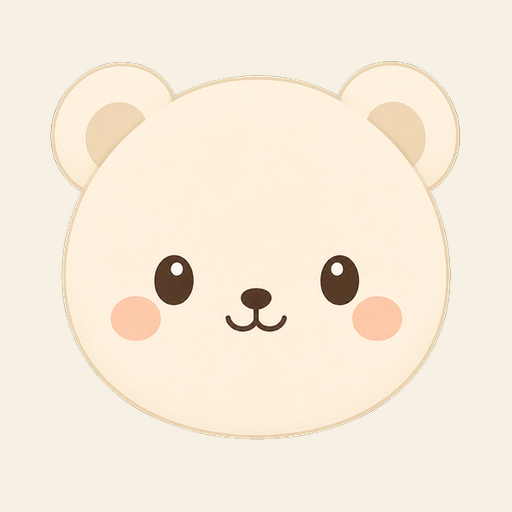
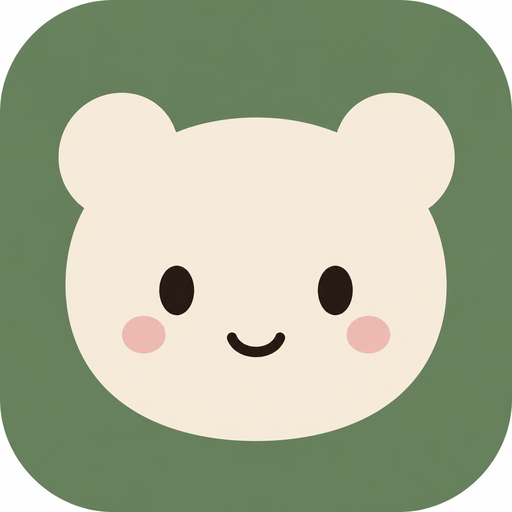
구글 파비콘을 세이지 세나로 연결한다
검색용 아이콘을 이미 만들어 둔 세이지 세나로 바꾸고, favicon.ico와 apple-touch-icon도 같은 얼굴로 맞춘다.

diff --git a/lib/brand.test.ts b/lib/brand.test.ts
@@ -2,7 +2,7 @@ import assert from "node:assert/strict"
 import { existsSync, readFileSync } from "node:fs"
 import { join } from "node:path"
 import test from "node:test"
-import { MASCOT } from "./brand.ts"
+import { MASCOT, MASCOT_FAVICON, MASCOT_MARK } from "./brand.ts"
 
 function pngSize(path: string) {
   const buf = readFileSync(path)
@@ -42,19 +42,31 @@ test("세나 그림 파일이 공개 폴더에 있다", () => {
   assert.equal(existsSync(join(root, "kindsem-sena-mark.png")), true)
   assert.equal(existsSync(join(root, "kindsem-sena-fav-48.png")), true)
   assert.equal(existsSync(join(root, "kindsem-sena-fav.ico")), true)
+  assert.equal(existsSync(join(root, "kindsem-sena-sage-48.png")), true)
+  assert.equal(existsSync(join(root, "kindsem-sena-sage-96.png")), true)
+  assert.equal(existsSync(join(root, "kindsem-sena-sage-192.png")), true)
+  assert.equal(existsSync(join(root, "kindsem-sena-sage.ico")), true)
   assert.equal(existsSync(join(root, "kindsem-sena-calc.png")), true)
   assert.equal(existsSync(join(root, "favicon.ico")), true)
+  assert.equal(existsSync(join(root, "apple-touch-icon.png")), true)
   assert.equal(existsSync(join(root, "icon-48.png")), true)
   assert.equal(existsSync(join(root, "icon-96.png")), true)
   assert.equal(existsSync(join(root, "icon-192.png")), true)
 })
 
-test("구글 검색용 파비콘이 48픽셀 배수다", () => {
+test("구글 검색용 파비콘이 세이지 세나고 48픽셀 배수다", () => {
   const root = join(process.cwd(), "public")
+  assert.equal(MASCOT_FAVICON.png48, "/kindsem-sena-sage-48.png")
+  assert.equal(MASCOT_FAVICON.png96, "/kindsem-sena-sage-96.png")
+  assert.equal(MASCOT_FAVICON.png192, "/kindsem-sena-sage-192.png")
+  assert.equal(MASCOT_FAVICON.ico, "/favicon.ico")
+  assert.equal(MASCOT_MARK.src, "/kindsem-sena-icon.png")
   assert.deepEqual(pngSize(join(root, "kindsem-sena-share-live.png")), { width: 1200, height: 1200 })
-  assert.deepEqual(pngSize(join(root, "kindsem-sena-mark.png")), { width: 512, height: 512 })
-  assert.deepEqual(pngSize(join(root, "kindsem-sena-fav-48.png")), { width: 48, height: 48 })
-  assert.deepEqual(pngSize(join(root, "kindsem-sena-fav-96.png")), { width: 96, height: 96 })
-  assert.deepEqual(pngSize(join(root, "kindsem-sena-fav-192.png")), { width: 192, height: 192 })
-  assert.ok(icoSizes(join(root, "kindsem-sena-fav.ico")).includes("48x48"))
+  assert.deepEqual(pngSize(join(root, "kindsem-sena-icon.png")), { width: 512, height: 512 })
+  assert.deepEqual(pngSize(join(root, "kindsem-sena-sage-48.png")), { width: 48, height: 48 })
+  assert.deepEqual(pngSize(join(root, "kindsem-sena-sage-96.png")), { width: 96, height: 96 })
+  assert.deepEqual(pngSize(join(root, "kindsem-sena-sage-192.png")), { width: 192, height: 192 })
+  assert.deepEqual(pngSize(join(root, "apple-touch-icon.png")), { width: 180, height: 180 })
+  assert.ok(icoSizes(join(root, "favicon.ico")).includes("48x48"))
+  assert.ok(icoSizes(join(root, "kindsem-sena-sage.ico")).includes("48x48"))
 })

diff --git a/lib/brand.ts b/lib/brand.ts
@@ -13,16 +13,16 @@ export const MASCOT_SHARE = {
   height: 1200,
 } as const
 
-/** 구글 파비콘·조직 로고. 지금 세나 얼굴, 크림 배경. */
+/** 구글 파비콘·조직 로고. 세이지 배경 위 지금 세나. 예전 크림 얼굴과 주소를 갈라 둡니다. */
 export const MASCOT_MARK = {
-  src: "/kindsem-sena-mark.png",
+  src: "/kindsem-sena-icon.png",
   width: 512,
   height: 512,
 } as const
 
 export const MASCOT_FAVICON = {
-  png48: "/kindsem-sena-fav-48.png",
-  png96: "/kindsem-sena-fav-96.png",
-  png192: "/kindsem-sena-fav-192.png",
-  ico: "/kindsem-sena-fav.ico",
+  png48: "/kindsem-sena-sage-48.png",
+  png96: "/kindsem-sena-sage-96.png",
+  png192: "/kindsem-sena-sage-192.png",
+  ico: "/favicon.ico",
 } as const

diff --git a/app/layout.tsx b/app/layout.tsx
@@ -38,7 +38,10 @@ export const metadata: Metadata = {
       { url: MASCOT_FAVICON.ico, sizes: "48x48" },
       { url: MASCOT_MARK.src, type: "image/png", sizes: "512x512" },
     ],
-    apple: [{ url: MASCOT_MARK.src, sizes: "180x180" }],
+    apple: [
+      { url: "/apple-touch-icon.png", sizes: "180x180" },
+      { url: MASCOT_MARK.src, sizes: "180x180" },
+    ],
   },
   openGraph: {
     type: "website",

diff --git a/components/sena.tsx b/components/sena.tsx
@@ -28,7 +28,7 @@ const VARIANTS = {
     className: "size-11 overflow-hidden rounded-full object-cover",
   },
   icon: {
-    src: "/kindsem-sena-mark.png",
+    src: "/kindsem-sena-icon.png",
     alt: MASCOT.name,
     width: 512,
     height: 512,

diff --git a/README.md b/README.md
@@ -6,7 +6,7 @@
 
 ## 테마
 
-따뜻한 크림 종이 위에 부드러운 세이지 그린입니다. 눈 편한 색감으로, 이름처럼 부담 없이 쓰도록 맞췄습니다. 마스코트 **세나**는 셈과 나(내가 세어 줄게요)를 붙인 이름입니다. 크림색 곰이 세이지 계산기와 영수증을 들고 있고, 그 얼굴이 헤더·홈·하단·파비콘에 같습니다.
+따뜻한 크림 종이 위에 부드러운 세이지 그린입니다. 눈 편한 색감으로, 이름처럼 부담 없이 쓰도록 맞췄습니다. 마스코트 **세나**는 셈과 나(내가 세어 줄게요)를 붙인 이름입니다. 크림색 곰이 세이지 계산기와 영수증을 들고 있습니다. 검색 파비콘은 세이지 배경 위 세나 얼굴이고, 헤더·홈·하단은 같은 세나를 씁니다. 구글 결과의 아이콘은 파비콘 URL을 바꾼 뒤에도 며칠 걸릴 수 있습니다.
 
 ## 계산기
 
